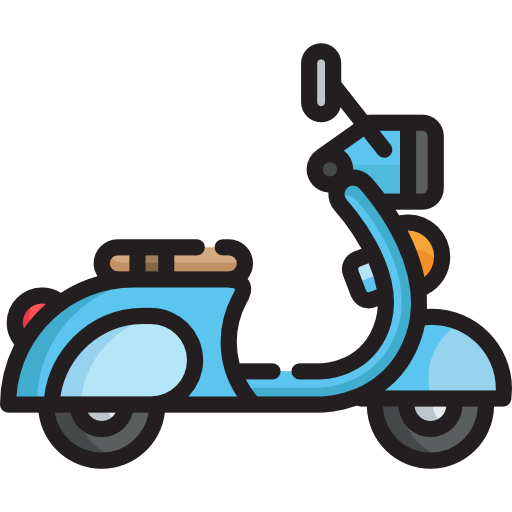
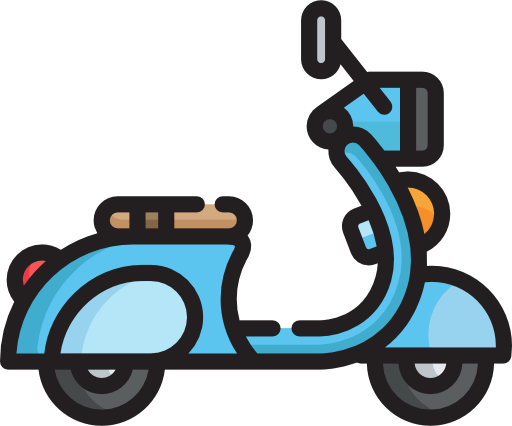
Motor taşıma düzeltmesi ve scooter görselini 2 kareye sığdır
- Yerleştirilmiş motora dokununca artık her durumda eline alınıyor; eskiden bir kart seçiliyken
  "Üst üste yerleştiremezsiniz" hatası çıkıyor, taşıma sadece kart seçili değilken çalışıyordu
- Taşırken elindeki motorun kartı vurgulanıyor, yön butonu motorun gerçek yönünü gösteriyor
- Geçersiz yere bırakınca motor elde kalıyor, kaybolmuyor
- Engellemeyen kısa bilgi mesajı (toast) eklendi; taşırken her seferinde "Tamam" basmaya gerek yok
- scooter.png şeffaf kenarlarından kırpıldı, 2 karelik şeridi tam dolduruyor

Claude-Session: https://claude.ai/code/session_013HgxsTLYdSyox7Lw8dgvgD

Changed region(s): [[0.0, 0.5188, 1.0, 1.0], [0.5625, 0.0, 0.875, 0.4883], [0.1875, 0.4577, 0.5, 0.4883]]

diff --git a/public/script.js b/public/script.js
@@ -83,6 +83,17 @@ function closeModal() {
     document.getElementById('custom-modal').classList.remove('active');
 }
 
+// Engellemeyen kısa bilgi mesajı (modal gibi "Tamam" bastırmaz)
+let toastTimer = null;
+function showToast(msg) {
+    const el = document.getElementById('toast');
+    if (!el) return;
+    el.innerText = msg;
+    el.classList.add('show');
+    clearTimeout(toastTimer);
+    toastTimer = setTimeout(() => el.classList.remove('show'), 2500);
+}
+
 function createBoard(boardId, clickHandler) {
     const board = document.getElementById(boardId);
     board.innerHTML = '';
@@ -169,7 +180,7 @@ function setupFleetSelectorBar() {
         inventory[f.type] = f.count;
         totalPartsToWin += f.size * f.count;
         barHTML += `
-            <div class="fleet-card" onclick="selectFleetCard('${f.type}', ${f.size}, this)">
+            <div class="fleet-card" data-type="${f.type}" onclick="selectFleetCard('${f.type}', ${f.size}, this)">
                 <img src="${MOTOR_IMAGES[f.type]}">
                 <span class="badge-count" id="count-${f.type}">x${f.count}</span>
             </div>
@@ -308,9 +319,11 @@ function handleMyBoardClick(index) {
 
     const boardCells = document.getElementById('my-board').children;
 
-    // 1. Zaten konulmuş bir motora tıklandıysa onu kaldırmak/taşımak için seç
+    // 1. Yerleştirilmiş bir motora dokunulduysa onu elimize al (taşımak için).
+    // Eskiden bu sadece hiçbir kart seçili değilken çalışıyordu; bir motor koyduktan sonra
+    // kart seçili kaldığı için dokununca "Üst üste yerleştiremezsiniz" hatası çıkıyordu.
     const existingIndex = placedMotors.findIndex(m => m.cells.includes(index));
-    if (existingIndex !== -1 && !selectedMotorType) {
+    if (existingIndex !== -1) {
         selectedMotorIndexToMove = existingIndex;
         const motorToMove = placedMotors[existingIndex];
         selectedMotorType = motorToMove.type;
@@ -326,7 +339,16 @@ function handleMyBoardClick(index) {
         inventory[selectedMotorType]++;
         updateInventoryBadges();
         document.getElementById('btn-ready').style.display = 'none';
-        showModal("Motor serbest bırakıldı! Yerleştirmek istediğin yeni boş kareye tıkla.");
+
+        // Elimizdeki motorun kartını vurgula, yön butonunu motorun gerçek yönüne getir
+        document.querySelectorAll('.fleet-card').forEach(c =>
+            c.classList.toggle('selected', c.dataset.type === selectedMotorType));
+        if (selectedMotorType === 'motocross') {
+            updateRotationButtonText();
+        } else {
+            document.getElementById('btn-rotate').innerText = isHorizontal ? "Yön: YATAY 🔄" : "Yön: DİKEY 🔄";
+        }
+        showToast("Motor elinde ✋ Yeni yerine dokun (yönü değiştirmek için 🔄)");
         return;
     }
 
@@ -353,6 +375,8 @@ function handleMyBoardClick(index) {
     }
 
     addMotorToBoard(boardCells, index, cellsToOccupy);
+    const toastEl = document.getElementById('toast');
+    if (toastEl) toastEl.classList.remove('show');
 
     inventory[selectedMotorType]--;
     updateInventoryBadges();

diff --git a/public/style.css b/public/style.css
@@ -149,6 +149,15 @@ button.btn-action { background: #05d9e8; color: #0f172a; font-weight: 800; }
 .modal-overlay.active { display: flex; }
 .modal-content { background: #121829; border: 2px solid #ff2a6d; padding: 25px; border-radius: 16px; max-width: 320px; width: 88%; color: white; }
 
+/* KISA BİLGİ MESAJI (toast) */
+#toast {
+    position: fixed; left: 50%; bottom: 24px; transform: translateX(-50%) translateY(20px);
+    background: #121829; color: #f1f5f9; border: 1px solid #05d9e8; border-radius: 20px;
+    padding: 10px 16px; font-size: 13px; font-weight: 600; max-width: 90vw;
+    opacity: 0; pointer-events: none; transition: opacity 0.2s, transform 0.2s; z-index: 900;
+}
+#toast.show { opacity: 1; transform: translateX(-50%) translateY(0); }
+
 /* SEKMELER: sadece telefonda görünür, aktif sekmedeki tahta gösterilir */
 .mobile-tabs { display: none; gap: 8px; max-width: 340px; margin: 0 auto 8px; }
 .tab-btn { background: #1e293b; color: #cbd5e1; border: 1px solid #334155; }

diff --git a/public/index.html b/public/index.html
@@ -87,6 +87,8 @@
         </div>
     </div>
 
+    <div id="toast"></div>
+
     <!-- SİTE İÇİ POP-UP (MODAL) -->
     <div id="custom-modal" class="modal-overlay">
         <div class="modal-content">
